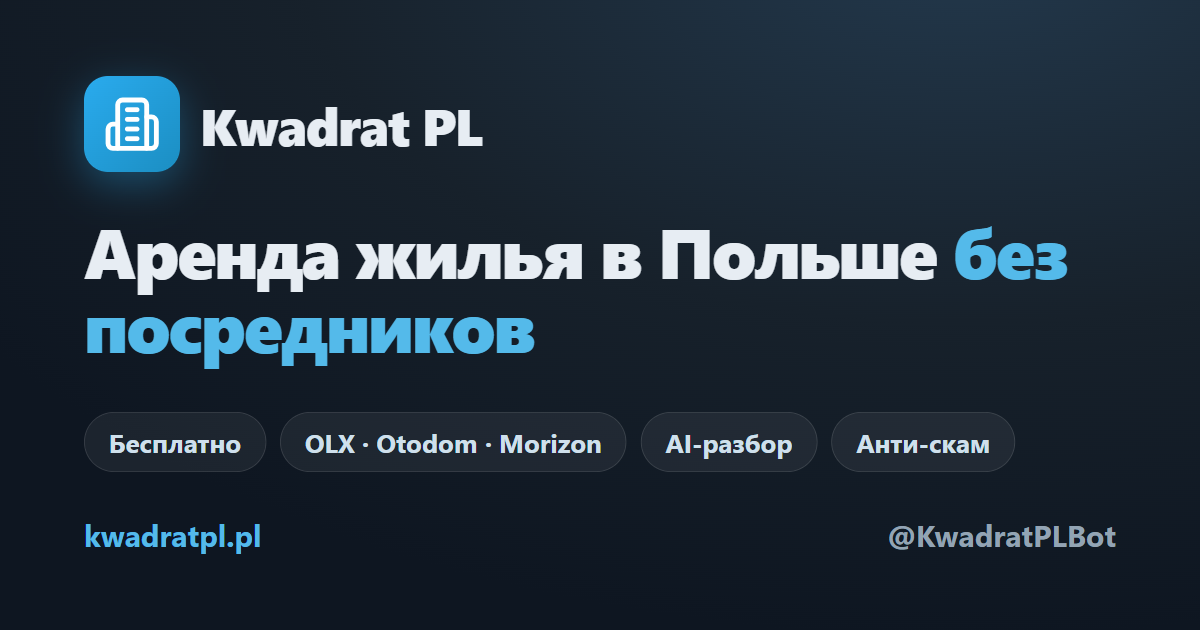
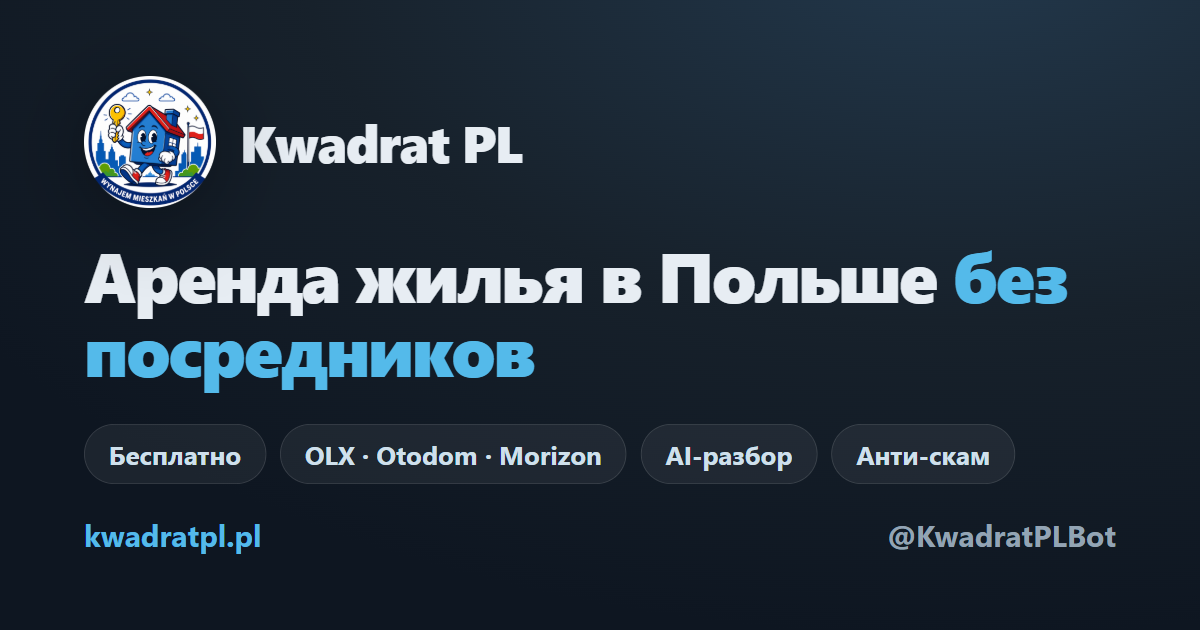
site: фирменный лого-маскот в шапке, герое, футере и OG
Круглая версия лого (прозрачный фон из logo.png с Desktop\KwadratBot, обрезка по
кругу + оптимизация до 512px) — работает на светлой и тёмной теме. Заменил
иконку-домик: бренд-маркер в хедере/футере (34px), крупный лого в герое (112px),
и пересобрал og.png с маскотом рядом с «Kwadrat PL».

diff --git a/site/ua/index.html b/site/ua/index.html
@@ -60,9 +60,7 @@ p{ margin:0 }
   backdrop-filter:saturate(1.4) blur(10px); border-bottom:1px solid var(--border) }
 .top .wrap{ display:flex; align-items:center; gap:16px; height:60px }
 .brand{ display:flex; align-items:center; gap:9px; font-weight:800; font-size:18px; letter-spacing:-.01em }
-.brand .mark{ display:inline-flex; width:30px; height:30px; border-radius:8px; color:#fff;
-  background:linear-gradient(135deg,var(--accent),var(--accent2)); align-items:center; justify-content:center }
-.brand .mark svg{ width:18px; height:18px }
+.brand .mark{ width:34px; height:34px; border-radius:50%; display:inline-block; object-fit:contain }
 .langs{ margin-left:auto; display:flex; gap:2px }
 .lang{ font-size:13px; font-weight:700; color:var(--muted); padding:6px 9px; border-radius:8px }
 .lang:hover{ color:var(--text); background:var(--bg2) }
@@ -81,7 +79,9 @@ p{ margin:0 }
 .btn.ghost:hover{ background:var(--card) }
 
 /* hero */
-.hero{ text-align:center; padding:72px 0 40px }
+.hero{ text-align:center; padding:56px 0 40px }
+.hero-logo{ width:112px; height:112px; display:block; margin:0 auto 22px;
+  filter:drop-shadow(0 10px 30px rgba(34,158,217,.25)) }
 .eyebrow{ display:inline-block; font-size:13px; font-weight:700; letter-spacing:.02em;
   color:var(--accent); background:color-mix(in srgb,var(--accent) 12%,transparent);
   padding:6px 13px; border-radius:999px; margin-bottom:20px }
@@ -175,7 +175,7 @@ footer{ border-top:1px solid var(--border); padding:40px 0; margin-top:20px }
 <header class="top">
   <div class="wrap">
     <a class="brand" href="https://kwadratpl.pl/ua/" aria-label="Kwadrat PL">
-      <span class="mark"><svg xmlns="http://www.w3.org/2000/svg" viewBox="0 0 24 24" fill="none" stroke="currentColor" stroke-width="2" stroke-linecap="round" stroke-linejoin="round"><path d="M6 22V4a2 2 0 0 1 2-2h8a2 2 0 0 1 2 2v18Z"/><path d="M6 12H4a2 2 0 0 0-2 2v6a2 2 0 0 0 2 2h2"/><path d="M18 9h2a2 2 0 0 1 2 2v9a2 2 0 0 1-2 2h-2"/><path d="M10 6h4"/><path d="M10 10h4"/><path d="M10 14h4"/><path d="M10 18h4"/></svg></span> Kwadrat PL
+      <img class="mark" src="/logo.png" alt="" width="34" height="34"> Kwadrat PL
     </a>
     <nav class="langs" aria-label="Мова"><a class="lang" href="https://kwadratpl.pl/" hreflang="ru">RU</a><span class="lang on" aria-current="true">UA</span><a class="lang" href="https://kwadratpl.pl/pl/" hreflang="pl">PL</a><a class="lang" href="https://kwadratpl.pl/en/" hreflang="en">EN</a></nav>
     <a class="btn sm cta" href="https://t.me/KwadratPLBot" rel="noopener"><svg xmlns="http://www.w3.org/2000/svg" viewBox="0 0 24 24" fill="none" stroke="currentColor" stroke-width="2" stroke-linecap="round" stroke-linejoin="round"><path d="M14.536 21.686a.5.5 0 0 0 .937-.024l6.5-19a.496.496 0 0 0-.635-.635l-19 6.5a.5.5 0 0 0-.024.937l7.93 3.18a2 2 0 0 1 1.112 1.11z"/><path d="m21.854 2.147-10.94 10.939"/></svg> Telegram</a>
@@ -185,6 +185,7 @@ footer{ border-top:1px solid var(--border); padding:40px 0; margin-top:20px }
 <main>
   <section class="hero">
     <div class="wrap">
+      <img class="hero-logo" src="/logo.png" alt="Kwadrat PL" width="112" height="112">
       <span class="eyebrow">Telegram-бот для оренди в Польщі</span>
       <h1>Оренда житла в Польщі — без посередників і переплат</h1>
       <p class="lead">Kwadrat PL збирає свіжі оголошення з OLX, Otodom і Morizon в один Telegram-бот. Підпишіться на пошук — нові квартири й кімнати надійдуть просто в чат, раніше за інших.</p>
@@ -331,7 +332,7 @@ footer{ border-top:1px solid var(--border); padding:40px 0; margin-top:20px }
   <div class="wrap">
     <div class="foot-grid">
       <div class="foot-about">
-        <div class="brand"><span class="mark"><svg xmlns="http://www.w3.org/2000/svg" viewBox="0 0 24 24" fill="none" stroke="currentColor" stroke-width="2" stroke-linecap="round" stroke-linejoin="round"><path d="M6 22V4a2 2 0 0 1 2-2h8a2 2 0 0 1 2 2v18Z"/><path d="M6 12H4a2 2 0 0 0-2 2v6a2 2 0 0 0 2 2h2"/><path d="M18 9h2a2 2 0 0 1 2 2v9a2 2 0 0 1-2 2h-2"/><path d="M10 6h4"/><path d="M10 10h4"/><path d="M10 14h4"/><path d="M10 18h4"/></svg></span> Kwadrat PL</div>
+        <div class="brand"><img class="mark" src="/logo.png" alt="" width="34" height="34"> Kwadrat PL</div>
         <p>Kwadrat PL — пошук оренди житла в Польщі для російсько- та україномовних. OLX, Otodom, Morizon в одному боті.</p>
       </div>
       <div>

diff --git a/site/index.html b/site/index.html
@@ -60,9 +60,7 @@ p{ margin:0 }
   backdrop-filter:saturate(1.4) blur(10px); border-bottom:1px solid var(--border) }
 .top .wrap{ display:flex; align-items:center; gap:16px; height:60px }
 .brand{ display:flex; align-items:center; gap:9px; font-weight:800; font-size:18px; letter-spacing:-.01em }
-.brand .mark{ display:inline-flex; width:30px; height:30px; border-radius:8px; color:#fff;
-  background:linear-gradient(135deg,var(--accent),var(--accent2)); align-items:center; justify-content:center }
-.brand .mark svg{ width:18px; height:18px }
+.brand .mark{ width:34px; height:34px; border-radius:50%; display:inline-block; object-fit:contain }
 .langs{ margin-left:auto; display:flex; gap:2px }
 .lang{ font-size:13px; font-weight:700; color:var(--muted); padding:6px 9px; border-radius:8px }
 .lang:hover{ color:var(--text); background:var(--bg2) }
@@ -81,7 +79,9 @@ p{ margin:0 }
 .btn.ghost:hover{ background:var(--card) }
 
 /* hero */
-.hero{ text-align:center; padding:72px 0 40px }
+.hero{ text-align:center; padding:56px 0 40px }
+.hero-logo{ width:112px; height:112px; display:block; margin:0 auto 22px;
+  filter:drop-shadow(0 10px 30px rgba(34,158,217,.25)) }
 .eyebrow{ display:inline-block; font-size:13px; font-weight:700; letter-spacing:.02em;
   color:var(--accent); background:color-mix(in srgb,var(--accent) 12%,transparent);
   padding:6px 13px; border-radius:999px; margin-bottom:20px }
@@ -175,7 +175,7 @@ footer{ border-top:1px solid var(--border); padding:40px 0; margin-top:20px }
 <header class="top">
   <div class="wrap">
     <a class="brand" href="https://kwadratpl.pl/" aria-label="Kwadrat PL">
-      <span class="mark"><svg xmlns="http://www.w3.org/2000/svg" viewBox="0 0 24 24" fill="none" stroke="currentColor" stroke-width="2" stroke-linecap="round" stroke-linejoin="round"><path d="M6 22V4a2 2 0 0 1 2-2h8a2 2 0 0 1 2 2v18Z"/><path d="M6 12H4a2 2 0 0 0-2 2v6a2 2 0 0 0 2 2h2"/><path d="M18 9h2a2 2 0 0 1 2 2v9a2 2 0 0 1-2 2h-2"/><path d="M10 6h4"/><path d="M10 10h4"/><path d="M10 14h4"/><path d="M10 18h4"/></svg></span> Kwadrat PL
+      <img class="mark" src="/logo.png" alt="" width="34" height="34"> Kwadrat PL
     </a>
     <nav class="langs" aria-label="Язык"><span class="lang on" aria-current="true">RU</span><a class="lang" href="https://kwadratpl.pl/ua/" hreflang="uk">UA</a><a class="lang" href="https://kwadratpl.pl/pl/" hreflang="pl">PL</a><a class="lang" href="https://kwadratpl.pl/en/" hreflang="en">EN</a></nav>
     <a class="btn sm cta" href="https://t.me/KwadratPLBot" rel="noopener"><svg xmlns="http://www.w3.org/2000/svg" viewBox="0 0 24 24" fill="none" stroke="currentColor" stroke-width="2" stroke-linecap="round" stroke-linejoin="round"><path d="M14.536 21.686a.5.5 0 0 0 .937-.024l6.5-19a.496.496 0 0 0-.635-.635l-19 6.5a.5.5 0 0 0-.024.937l7.93 3.18a2 2 0 0 1 1.112 1.11z"/><path d="m21.854 2.147-10.94 10.939"/></svg> Telegram</a>
@@ -185,6 +185,7 @@ footer{ border-top:1px solid var(--border); padding:40px 0; margin-top:20px }
 <main>
   <section class="hero">
     <div class="wrap">
+      <img class="hero-logo" src="/logo.png" alt="Kwadrat PL" width="112" height="112">
       <span class="eyebrow">Telegram-бот для аренды в Польше</span>
       <h1>Аренда жилья в Польше — без посредников и переплат</h1>
       <p class="lead">Kwadrat PL собирает свежие объявления с OLX, Otodom и Morizon в один Telegram-бот. Подпишитесь на поиск — новые квартиры и комнаты придут прямо в чат, раньше других.</p>
@@ -331,7 +332,7 @@ footer{ border-top:1px solid var(--border); padding:40px 0; margin-top:20px }
   <div class="wrap">
     <div class="foot-grid">
       <div class="foot-about">
-        <div class="brand"><span class="mark"><svg xmlns="http://www.w3.org/2000/svg" viewBox="0 0 24 24" fill="none" stroke="currentColor" stroke-width="2" stroke-linecap="round" stroke-linejoin="round"><path d="M6 22V4a2 2 0 0 1 2-2h8a2 2 0 0 1 2 2v18Z"/><path d="M6 12H4a2 2 0 0 0-2 2v6a2 2 0 0 0 2 2h2"/><path d="M18 9h2a2 2 0 0 1 2 2v9a2 2 0 0 1-2 2h-2"/><path d="M10 6h4"/><path d="M10 10h4"/><path d="M10 14h4"/><path d="M10 18h4"/></svg></span> Kwadrat PL</div>
+        <div class="brand"><img class="mark" src="/logo.png" alt="" width="34" height="34"> Kwadrat PL</div>
         <p>Kwadrat PL — поиск аренды жилья в Польше для русско- и украиноязычных. OLX, Otodom, Morizon в одном боте.</p>
       </div>
       <div>

diff --git a/site/pl/index.html b/site/pl/index.html
@@ -60,9 +60,7 @@ p{ margin:0 }
   backdrop-filter:saturate(1.4) blur(10px); border-bottom:1px solid var(--border) }
 .top .wrap{ display:flex; align-items:center; gap:16px; height:60px }
 .brand{ display:flex; align-items:center; gap:9px; font-weight:800; font-size:18px; letter-spacing:-.01em }
-.brand .mark{ display:inline-flex; width:30px; height:30px; border-radius:8px; color:#fff;
-  background:linear-gradient(135deg,var(--accent),var(--accent2)); align-items:center; justify-content:center }
-.brand .mark svg{ width:18px; height:18px }
+.brand .mark{ width:34px; height:34px; border-radius:50%; display:inline-block; object-fit:contain }
 .langs{ margin-left:auto; display:flex; gap:2px }
 .lang{ font-size:13px; font-weight:700; color:var(--muted); padding:6px 9px; border-radius:8px }
 .lang:hover{ color:var(--text); background:var(--bg2) }
@@ -81,7 +79,9 @@ p{ margin:0 }
 .btn.ghost:hover{ background:var(--card) }
 
 /* hero */
-.hero{ text-align:center; padding:72px 0 40px }
+.hero{ text-align:center; padding:56px 0 40px }
+.hero-logo{ width:112px; height:112px; display:block; margin:0 auto 22px;
+  filter:drop-shadow(0 10px 30px rgba(34,158,217,.25)) }
 .eyebrow{ display:inline-block; font-size:13px; font-weight:700; letter-spacing:.02em;
   color:var(--accent); background:color-mix(in srgb,var(--accent) 12%,transparent);
   padding:6px 13px; border-radius:999px; margin-bottom:20px }
@@ -175,7 +175,7 @@ footer{ border-top:1px solid var(--border); padding:40px 0; margin-top:20px }
 <header class="top">
   <div class="wrap">
     <a class="brand" href="https://kwadratpl.pl/pl/" aria-label="Kwadrat PL">
-      <span class="mark"><svg xmlns="http://www.w3.org/2000/svg" viewBox="0 0 24 24" fill="none" stroke="currentColor" stroke-width="2" stroke-linecap="round" stroke-linejoin="round"><path d="M6 22V4a2 2 0 0 1 2-2h8a2 2 0 0 1 2 2v18Z"/><path d="M6 12H4a2 2 0 0 0-2 2v6a2 2 0 0 0 2 2h2"/><path d="M18 9h2a2 2 0 0 1 2 2v9a2 2 0 0 1-2 2h-2"/><path d="M10 6h4"/><path d="M10 10h4"/><path d="M10 14h4"/><path d="M10 18h4"/></svg></span> Kwadrat PL
+      <img class="mark" src="/logo.png" alt="" width="34" height="34"> Kwadrat PL
     </a>
     <nav class="langs" aria-label="Język"><a class="lang" href="https://kwadratpl.pl/" hreflang="ru">RU</a><a class="lang" href="https://kwadratpl.pl/ua/" hreflang="uk">UA</a><span class="lang on" aria-current="true">PL</span><a class="lang" href="https://kwadratpl.pl/en/" hreflang="en">EN</a></nav>
     <a class="btn sm cta" href="https://t.me/KwadratPLBot" rel="noopener"><svg xmlns="http://www.w3.org/2000/svg" viewBox="0 0 24 24" fill="none" stroke="currentColor" stroke-width="2" stroke-linecap="round" stroke-linejoin="round"><path d="M14.536 21.686a.5.5 0 0 0 .937-.024l6.5-19a.496.496 0 0 0-.635-.635l-19 6.5a.5.5 0 0 0-.024.937l7.93 3.18a2 2 0 0 1 1.112 1.11z"/><path d="m21.854 2.147-10.94 10.939"/></svg> Telegram</a>
@@ -185,6 +185,7 @@ footer{ border-top:1px solid var(--border); padding:40px 0; margin-top:20px }
 <main>
   <section class="hero">
     <div class="wrap">
+      <img class="hero-logo" src="/logo.png" alt="Kwadrat PL" width="112" height="112">
       <span class="eyebrow">Bot Telegram do wynajmu w Polsce</span>
       <h1>Wynajem mieszkań w Polsce — bez pośredników i przepłacania</h1>
       <p class="lead">Kwadrat PL zbiera świeże ogłoszenia z OLX, Otodom i Morizon w jednym bocie Telegram. Zasubskrybuj wyszukiwanie — nowe mieszkania i pokoje trafią prosto na czat, szybciej niż do innych.</p>
@@ -331,7 +332,7 @@ footer{ border-top:1px solid var(--border); padding:40px 0; margin-top:20px }
   <div class="wrap">
     <div class="foot-grid">
       <div class="foot-about">
-        <div class="brand"><span class="mark"><svg xmlns="http://www.w3.org/2000/svg" viewBox="0 0 24 24" fill="none" stroke="currentColor" stroke-width="2" stroke-linecap="round" stroke-linejoin="round"><path d="M6 22V4a2 2 0 0 1 2-2h8a2 2 0 0 1 2 2v18Z"/><path d="M6 12H4a2 2 0 0 0-2 2v6a2 2 0 0 0 2 2h2"/><path d="M18 9h2a2 2 0 0 1 2 2v9a2 2 0 0 1-2 2h-2"/><path d="M10 6h4"/><path d="M10 10h4"/><path d="M10 14h4"/><path d="M10 18h4"/></svg></span> Kwadrat PL</div>
+        <div class="brand"><img class="mark" src="/logo.png" alt="" width="34" height="34"> Kwadrat PL</div>
         <p>Kwadrat PL — wyszukiwanie mieszkań na wynajem w Polsce. OLX, Otodom i Morizon w jednym bocie Telegram.</p>
       </div>
       <div>

diff --git a/site/en/index.html b/site/en/index.html
@@ -60,9 +60,7 @@ p{ margin:0 }
   backdrop-filter:saturate(1.4) blur(10px); border-bottom:1px solid var(--border) }
 .top .wrap{ display:flex; align-items:center; gap:16px; height:60px }
 .brand{ display:flex; align-items:center; gap:9px; font-weight:800; font-size:18px; letter-spacing:-.01em }
-.brand .mark{ display:inline-flex; width:30px; height:30px; border-radius:8px; color:#fff;
-  background:linear-gradient(135deg,var(--accent),var(--accent2)); align-items:center; justify-content:center }
-.brand .mark svg{ width:18px; height:18px }
+.brand .mark{ width:34px; height:34px; border-radius:50%; display:inline-block; object-fit:contain }
 .langs{ margin-left:auto; display:flex; gap:2px }
 .lang{ font-size:13px; font-weight:700; color:var(--muted); padding:6px 9px; border-radius:8px }
 .lang:hover{ color:var(--text); background:var(--bg2) }
@@ -81,7 +79,9 @@ p{ margin:0 }
 .btn.ghost:hover{ background:var(--card) }
 
 /* hero */
-.hero{ text-align:center; padding:72px 0 40px }
+.hero{ text-align:center; padding:56px 0 40px }
+.hero-logo{ width:112px; height:112px; display:block; margin:0 auto 22px;
+  filter:drop-shadow(0 10px 30px rgba(34,158,217,.25)) }
 .eyebrow{ display:inline-block; font-size:13px; font-weight:700; letter-spacing:.02em;
   color:var(--accent); background:color-mix(in srgb,var(--accent) 12%,transparent);
   padding:6px 13px; border-radius:999px; margin-bottom:20px }
@@ -175,7 +175,7 @@ footer{ border-top:1px solid var(--border); padding:40px 0; margin-top:20px }
 <header class="top">
   <div class="wrap">
     <a class="brand" href="https://kwadratpl.pl/en/" aria-label="Kwadrat PL">
-      <span class="mark"><svg xmlns="http://www.w3.org/2000/svg" viewBox="0 0 24 24" fill="none" stroke="currentColor" stroke-width="2" stroke-linecap="round" stroke-linejoin="round"><path d="M6 22V4a2 2 0 0 1 2-2h8a2 2 0 0 1 2 2v18Z"/><path d="M6 12H4a2 2 0 0 0-2 2v6a2 2 0 0 0 2 2h2"/><path d="M18 9h2a2 2 0 0 1 2 2v9a2 2 0 0 1-2 2h-2"/><path d="M10 6h4"/><path d="M10 10h4"/><path d="M10 14h4"/><path d="M10 18h4"/></svg></span> Kwadrat PL
+      <img class="mark" src="/logo.png" alt="" width="34" height="34"> Kwadrat PL
     </a>
     <nav class="langs" aria-label="Language"><a class="lang" href="https://kwadratpl.pl/" hreflang="ru">RU</a><a class="lang" href="https://kwadratpl.pl/ua/" hreflang="uk">UA</a><a class="lang" href="https://kwadratpl.pl/pl/" hreflang="pl">PL</a><span class="lang on" aria-current="true">EN</span></nav>
     <a class="btn sm cta" href="https://t.me/KwadratPLBot" rel="noopener"><svg xmlns="http://www.w3.org/2000/svg" viewBox="0 0 24 24" fill="none" stroke="currentColor" stroke-width="2" stroke-linecap="round" stroke-linejoin="round"><path d="M14.536 21.686a.5.5 0 0 0 .937-.024l6.5-19a.496.496 0 0 0-.635-.635l-19 6.5a.5.5 0 0 0-.024.937l7.93 3.18a2 2 0 0 1 1.112 1.11z"/><path d="m21.854 2.147-10.94 10.939"/></svg> Telegram</a>
@@ -185,6 +185,7 @@ footer{ border-top:1px solid var(--border); padding:40px 0; margin-top:20px }
 <main>
   <section class="hero">
     <div class="wrap">
+      <img class="hero-logo" src="/logo.png" alt="Kwadrat PL" width="112" height="112">
       <span class="eyebrow">Telegram bot for renting in Poland</span>
       <h1>Rent a home in Poland — no agents, no overpaying</h1>
       <p class="lead">Kwadrat PL gathers fresh listings from OLX, Otodom and Morizon into one Telegram bot. Subscribe to a search and new flats and rooms land right in your chat, before everyone else.</p>
@@ -331,7 +332,7 @@ footer{ border-top:1px solid var(--border); padding:40px 0; margin-top:20px }
   <div class="wrap">
     <div class="foot-grid">
       <div class="foot-about">
-        <div class="brand"><span class="mark"><svg xmlns="http://www.w3.org/2000/svg" viewBox="0 0 24 24" fill="none" stroke="currentColor" stroke-width="2" stroke-linecap="round" stroke-linejoin="round"><path d="M6 22V4a2 2 0 0 1 2-2h8a2 2 0 0 1 2 2v18Z"/><path d="M6 12H4a2 2 0 0 0-2 2v6a2 2 0 0 0 2 2h2"/><path d="M18 9h2a2 2 0 0 1 2 2v9a2 2 0 0 1-2 2h-2"/><path d="M10 6h4"/><path d="M10 10h4"/><path d="M10 14h4"/><path d="M10 18h4"/></svg></span> Kwadrat PL</div>
+        <div class="brand"><img class="mark" src="/logo.png" alt="" width="34" height="34"> Kwadrat PL</div>
         <p>Kwadrat PL — finding rental homes in Poland. OLX, Otodom and Morizon in one Telegram bot.</p>
       </div>
       <div>

diff --git a/site/_build/og.html b/site/_build/og.html
@@ -10,10 +10,10 @@
     background:radial-gradient(1200px 700px at 80% -10%, #23394d 0%, #17212b 55%, #0e1621 100%);
     color:#e7edf3; padding:76px 84px; display:flex; flex-direction:column; justify-content:space-between;
   }
-  .top{ display:flex; align-items:center; gap:20px }
-  .mark{ width:96px; height:96px; border-radius:24px; display:flex; align-items:center; justify-content:center;
-    background:linear-gradient(135deg,#2AABEE,#1b8ec2); box-shadow:0 12px 40px rgba(42,171,238,.35) }
-  .mark svg{ width:58px; height:58px }
+  .top{ display:flex; align-items:center; gap:24px }
+  .mark{ width:132px; height:132px; display:flex; align-items:center; justify-content:center;
+    filter:drop-shadow(0 12px 40px rgba(0,0,0,.35)) }
+  .mark img{ width:132px; height:132px }
   .brand{ font-size:52px; font-weight:850; letter-spacing:-.02em }
   h1{ font-size:70px; font-weight:850; line-height:1.05; letter-spacing:-.03em; max-width:1000px }
   h1 .hl{ color:#54baea }
@@ -27,14 +27,7 @@
 </head>
 <body>
   <div class="top">
-    <div class="mark">
-      <svg viewBox="0 0 24 24" fill="none" stroke="#fff" stroke-width="2" stroke-linecap="round" stroke-linejoin="round">
-        <path d="M6 22V4a2 2 0 0 1 2-2h8a2 2 0 0 1 2 2v18Z"/>
-        <path d="M6 12H4a2 2 0 0 0-2 2v6a2 2 0 0 0 2 2h2"/>
-        <path d="M18 9h2a2 2 0 0 1 2 2v9a2 2 0 0 1-2 2h-2"/>
-        <path d="M10 6h4"/><path d="M10 10h4"/><path d="M10 14h4"/><path d="M10 18h4"/>
-      </svg>
-    </div>
+    <div class="mark"><img src="../logo.png" alt="Kwadrat PL"></div>
     <div class="brand">Kwadrat PL</div>
   </div>
 
